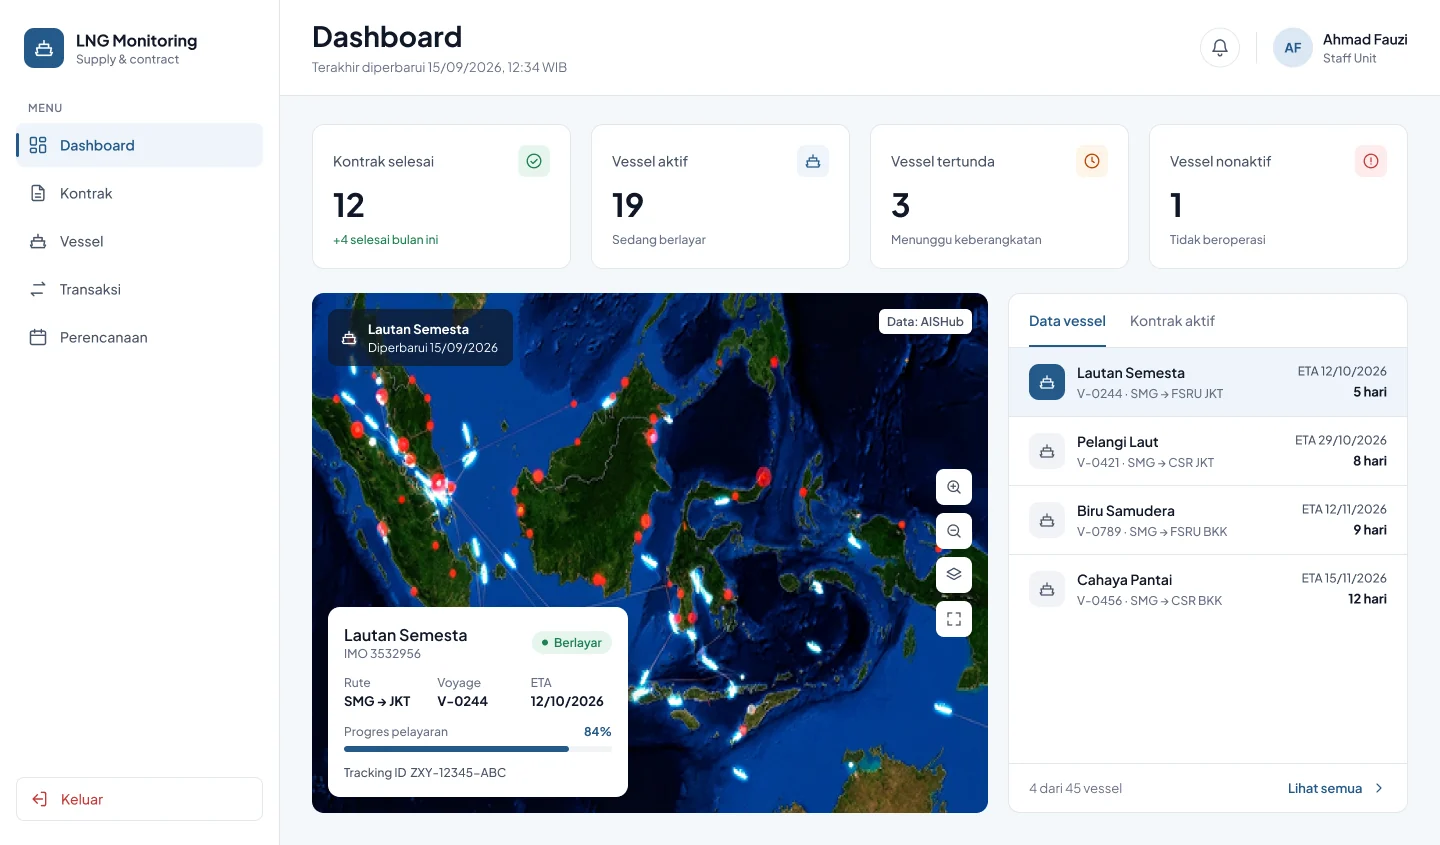
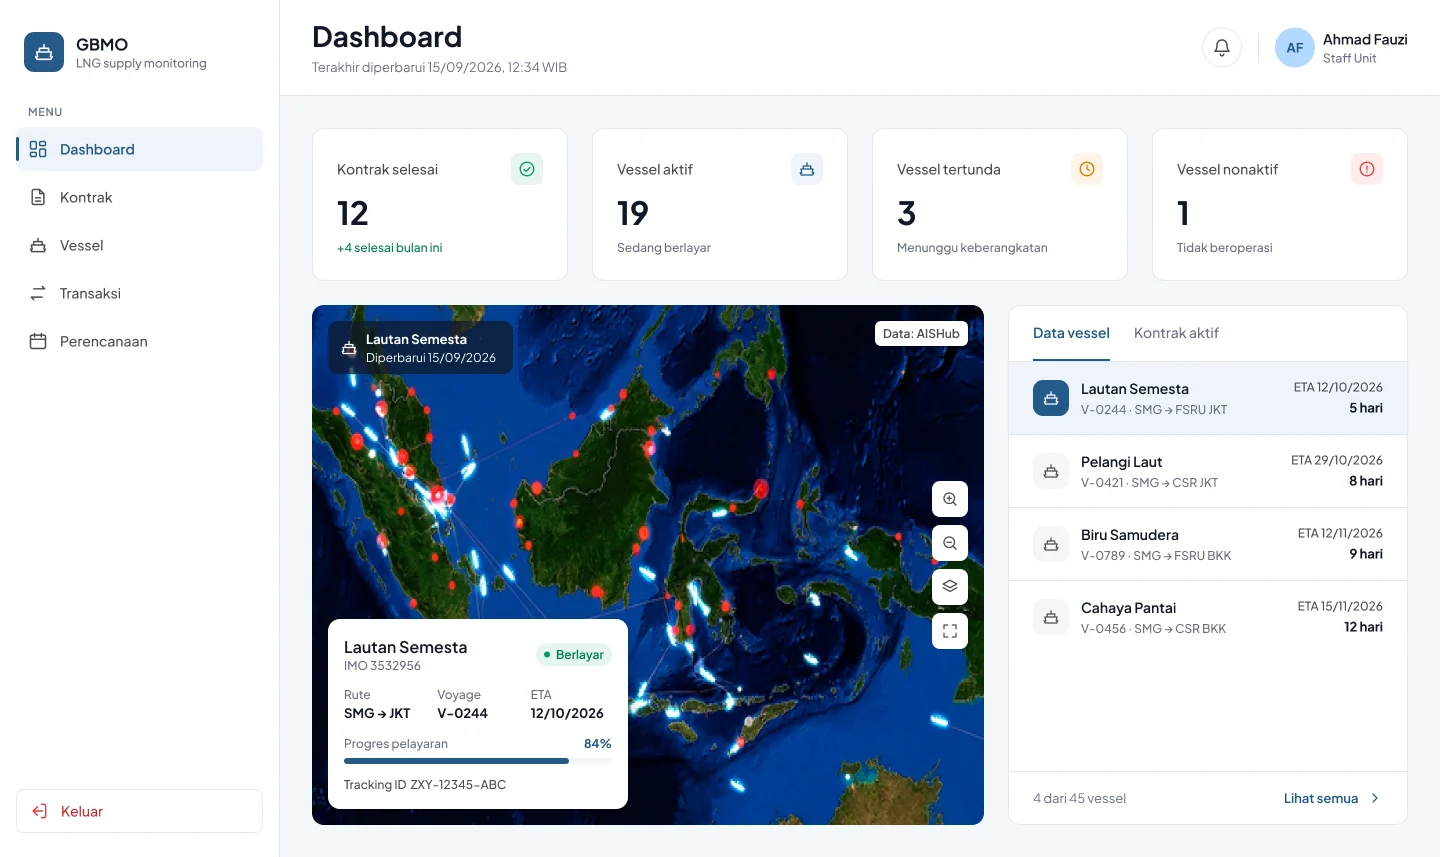
feat(pln): verification screen and refreshed GBMO visuals
Swap the contract-detail figure for the report verification screen,
where one indicator outside tolerance disables approval and the
reason is shown. Re-export the data view and dashboard after
aligning the Figma tokens to the GBMO design-system foundation.

diff --git a/src/content/caseStudies/pln.js b/src/content/caseStudies/pln.js
@@ -31,7 +31,9 @@ export const pln = {
     // pembaca sampai ke screenshot pertama.
     { key: "Data", value: "Dummy data only · every screen shown uses no real operational records" },
     // Gambar = hi-fi GBMO yang dirapikan untuk portofolio (section
-    // "Portfolio · Polished" di file Figma GBMO-1), bukan screenshot build.
+    // "Hi-fi · Polished" dan "Portfolio · Polished" di file Figma GBMO-1),
+    // bukan screenshot build. Dummy data ikut dibersihkan (nama tokoh
+    // publik, domain @pln.co.id, email pribadi diganti).
     { key: "Visuals", value: "My hi-fi designs, tidied for this portfolio: one type scale, colour tokens, shared components" },
   ],
 
@@ -175,12 +177,12 @@ export const pln = {
         tradeoff:
           "Speed against transparency. The approver sees what the verdict was calculated from, not just the verdict, because a contract carries money and may be audited.",
         figure: {
-          src: "/projects/pln/contract-detail.webp",
+          src: "/projects/pln/contract-verification.webp",
           width: 1440,
-          height: 967,
-          alt: "Contract detail: shipment stepper, approval state per signatory, and the tolerance check written out beneath",
+          height: 1086,
+          alt: "Report verification: loading and unloading values compared per indicator, one row outside tolerance, and the approve button disabled with the reason beside it",
           caption:
-            "Approval state per signatory, with the tolerance check that produced it written out underneath.",
+            "Loading against unloading, per indicator. One red row disables approval, and the screen says why.",
         },
       },
       {
@@ -201,7 +203,7 @@ export const pln = {
         figure: {
           src: "/projects/pln/dashboard-map.webp",
           width: 1440,
-          height: 845,
+          height: 857,
           alt: "Unit dashboard: KPI cards, a vessel map with the selected voyage's route, ETA, and progress, and a vessel list",
           caption:
             "The vessel map on the unit dashboard: each voyage carries its own route, arrival estimate, and progress.",
